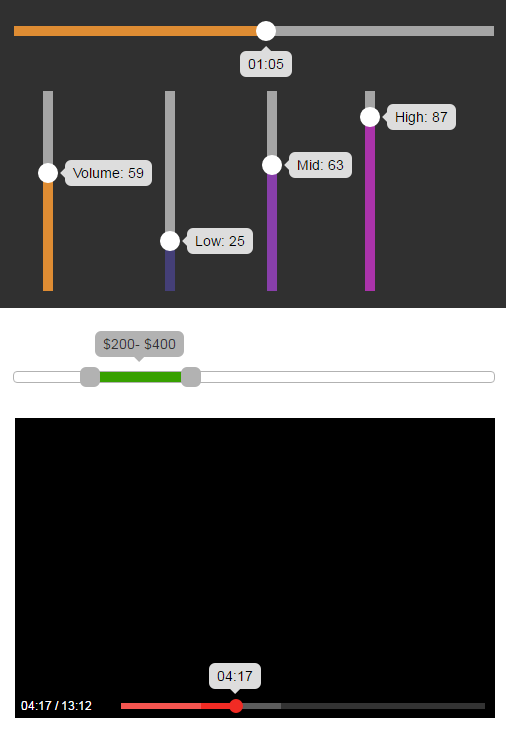
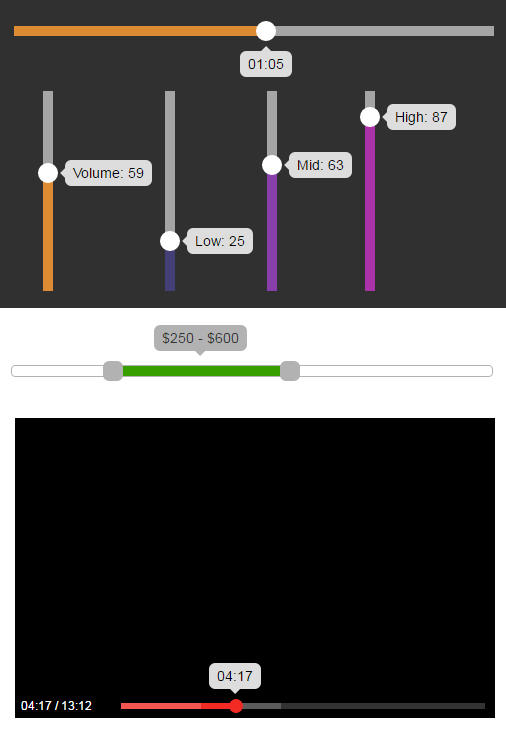
Add minified CSS

Changed region(s): [[0.0296, 0.4299, 0.9783, 0.522]]

diff --git a/build/value-slider.min.css b/build/value-slider.min.css
@@ -1,0 +1,1 @@
+.value-slider-body{display:block;width:100%;height:10px;margin:10px 0;background-color:#a5a5a5;cursor:pointer}.slider-value{position:relative;z-index:21;width:100%;height:100%;background-color:#de8c33}.slider-handle-left,.slider-handle-right{position:absolute;z-index:25;display:inline;padding:0;margin:0;width:20px;height:20px;top:-5px;border-radius:50%;background-color:rgba(255,255,255,1)}.slider-buffered,.slider-mouseat{background-color:rgba(255,255,255,.2);position:relative}.slider-handle-left{float:left;left:calc(0% - 10px)}.slider-handle-right{float:right;left:calc(100% - 10px)}.slider-mouseat{float:left;z-index:22;width:0;height:100%}.slider-buffered{z-index:20;height:10px;margin-top:-10px}.value-slider-tooltip{position:relative;z-index:24}.value-slider-tooltip .arrow-left,.value-slider-tooltip .arrow-right{display:inline;position:relative;width:0;height:0;float:left;border-top:5px solid transparent;border-bottom:5px solid transparent;top:50%;-ms-transform:translateY(-50%);transform:translateY(-50%);line-height:0}.value-slider-tooltip .arrow-down,.value-slider-tooltip .arrow-up{display:block;position:relative;width:0;height:0;border-left:5px solid transparent;border-right:5px solid transparent;margin:0 auto;line-height:0}.value-slider-tooltip .arrow-left{border-right:5px solid #ddd}.value-slider-tooltip .arrow-right{border-left:5px solid #ddd}.value-slider-tooltip .arrow-up{border-bottom:5px solid #ddd}.value-slider-tooltip .arrow-down{border-top:5px solid #ddd}.value-slider-tooltip .tooltip-body{display:inline;position:relative;float:left;background-color:#ddd;padding:5px 8px;border-radius:6px;color:#000;font-size:14px}.value-slider-vertical{display:inline-block;height:200px;width:10px;margin:10px 0}.value-slider-body-vertical{display:block;float:left;width:10px;height:100%;background-color:#a5a5a5;cursor:pointer}.slider-value-vertical{position:relative;z-index:21;width:10px;height:100%;background-color:#de8c33}.slider-handle-left-vertical,.slider-handle-right-vertical{position:absolute;z-index:24;display:inline;padding:0;margin:0;width:20px;height:20px;left:-5px;border-radius:50%;background-color:rgba(255,255,255,1)}.slider-handle-left-vertical{top:calc(100% - 10px)}.slider-handle-right-vertical{top:calc(0% - 10px)}

diff --git a/demos/demo3 - Range Selection.html b/demos/demo3 - Range Selection.html
@@ -59,7 +59,7 @@
 			step: 50,
 			invertTooltip: true,
 			tooltipLabel: function(lVal, rVal) {
-				return '$' + lVal + '- $' + rVal;
+				return '$' + lVal + ' - $' + rVal;
 			}
 		});
 

diff --git a/README.md b/README.md
@@ -5,7 +5,7 @@ A versatile UI slider widget useful for both single value and range selection. C
 ## Features:
 
 - Pure JavaScript and CSS (no dependencies)
-- Ultra light (11kb)
+- Ultra light (15kb with CSS)
 - Horizontal (default) or vertical orientation
 - Range selection mode
 - Buffer layer display (optional, only on horizontal sliders)
@@ -15,9 +15,9 @@ A versatile UI slider widget useful for both single value and range selection. C
 - Works in all browsers (even in decrepit old IEs)
 - For more, read about the options object in the docs
 
-## Usage
+## Usage:
 See the [documentation](https://github.com/DusanDimitric/value-slider/wiki/Documentation "documentation").
 
-## Demo Screenshots
+## Demo Screenshots:
 
 ![screenshots](https://github.com/DusanDimitric/value-slider/blob/master/demos/screenshots.png "Screenshots from demos")
